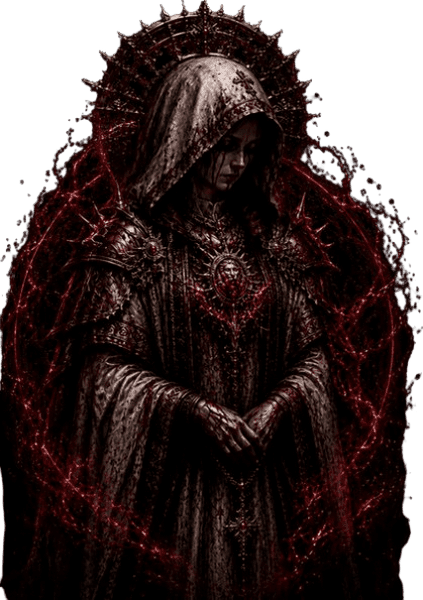
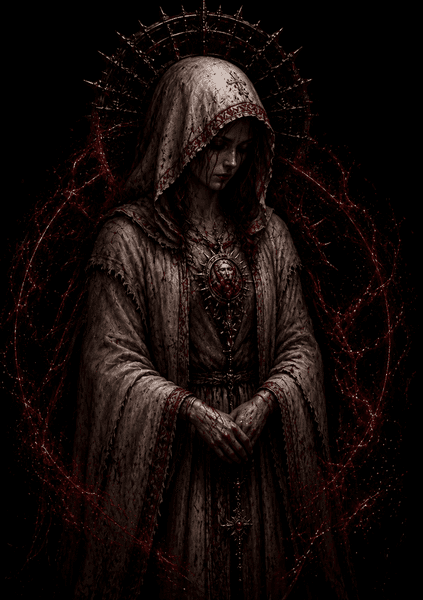
4355

diff --git a/data/units.js b/data/units.js
@@ -2823,7 +2823,7 @@ const UNITS = {
         name_ru: 'Хранитель Окровавленной Завесы',
         tags: ['Demon', 'Holy'],
         size: 'tile',
-        hp: 65, armor: 10, initiative: 20,
+        hp: 60, armor: 15, initiative: 20,
         resistances: { air: 0, fire: 25, life: 40, death: 25, cold: 0, nature: 0 },
         action: 'attack', target_type: 'enemy', targets: 1, range: 3,
         damage_source: 'life', action_power: 20, action_icon: 'communion.jpg',

diff --git a/public/screens/loading.js b/public/screens/loading.js
@@ -4,7 +4,7 @@ import { assetUrl } from '../asset_base.js';
 
 // Shown in the corner of the loading screen so a player reporting a bug can say
 // which build they were on. Bump this on every release.
-export const GAME_VERSION = '0.4354';
+export const GAME_VERSION = '0.4355';
 
 const LOADING_IMAGES = [
   assetUrl('/assets/loading_screens/loading1.jpg'),
